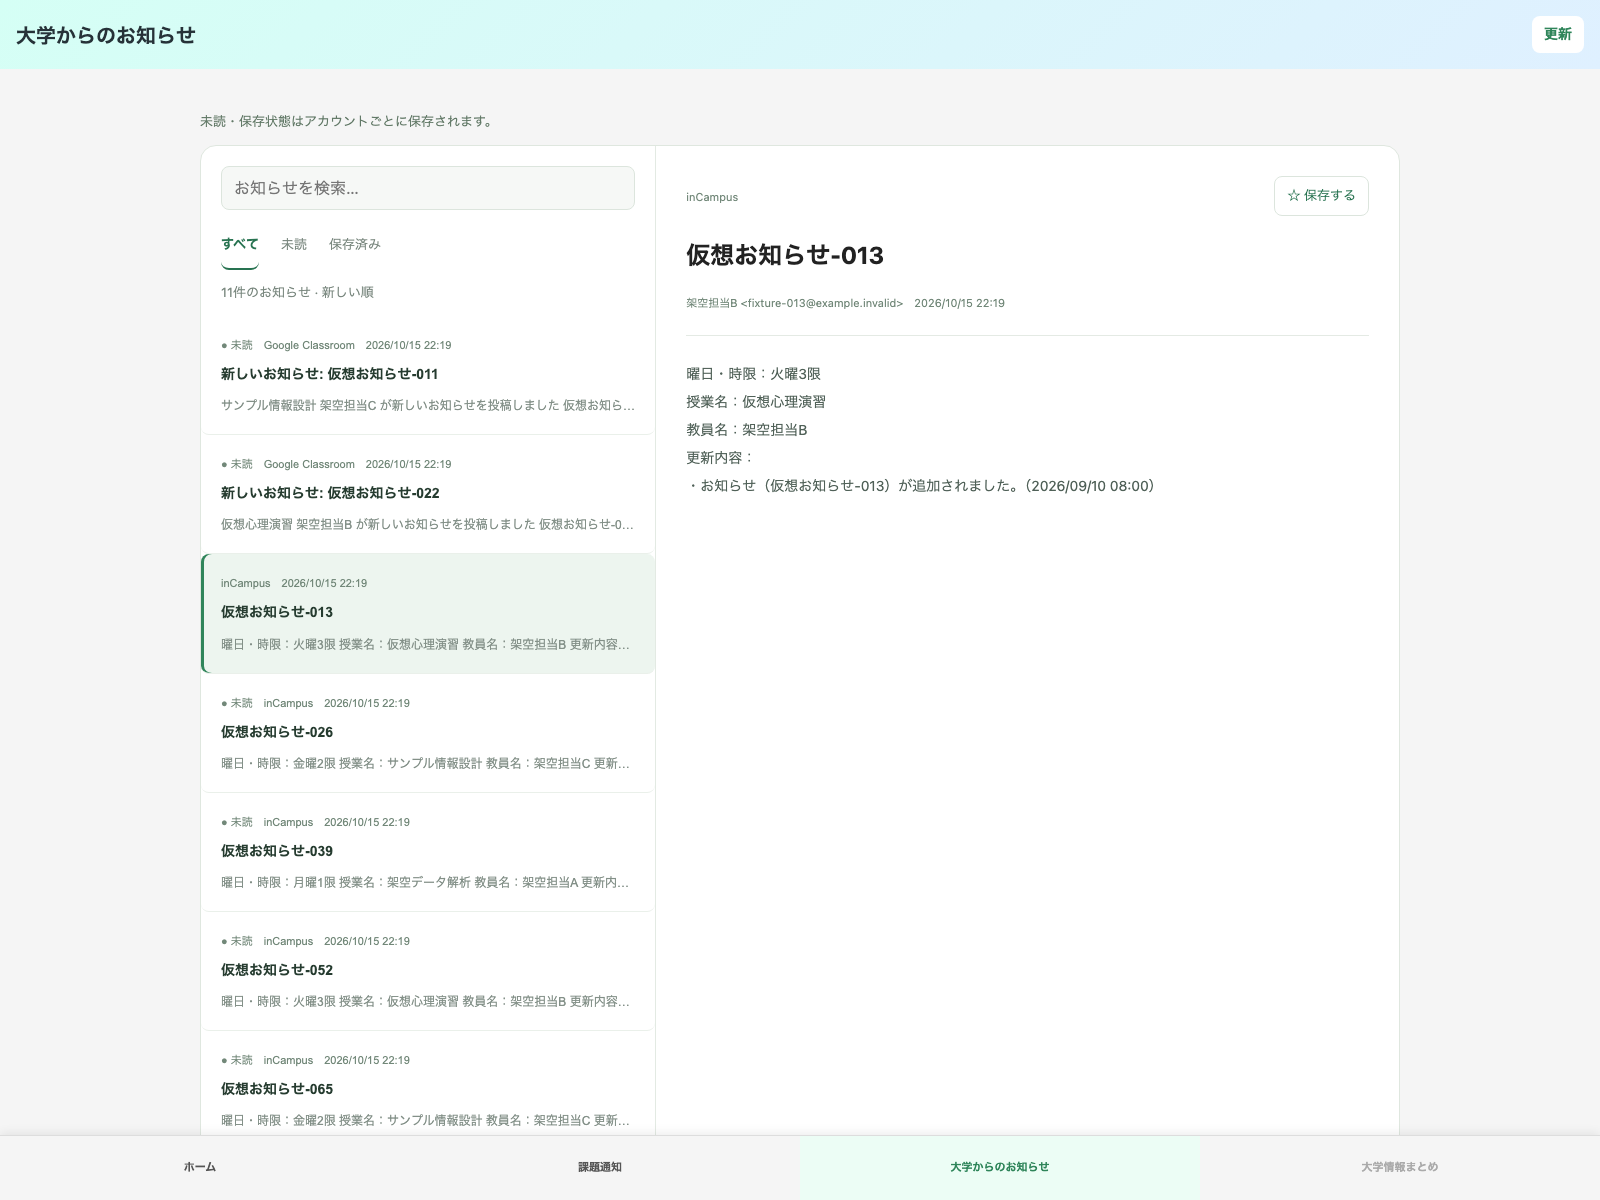
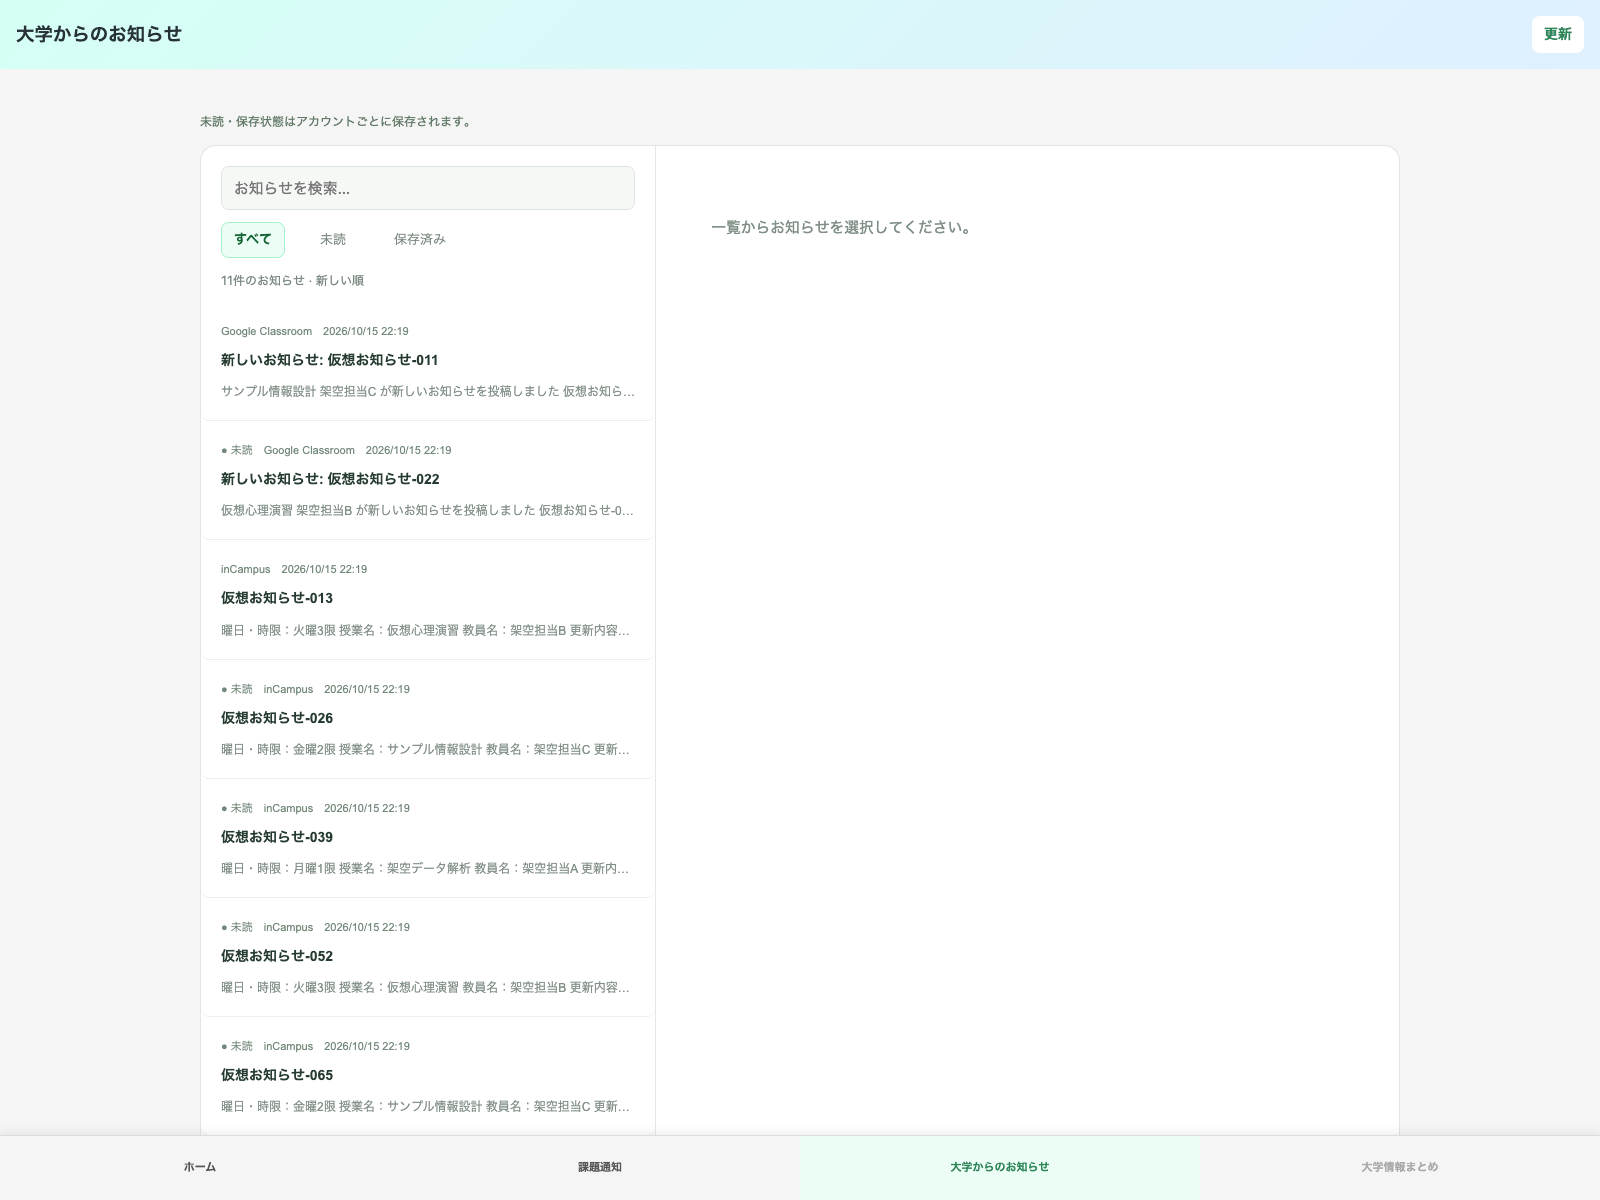
fix university notice filter styling

diff --git a/taskhub-split/taskhub-split/UniversityView.html b/taskhub-split/taskhub-split/UniversityView.html
@@ -4,5 +4,5 @@
 <p id="un-status" role="status" aria-live="polite"></p>
 <div class="un-shell" id="un-shell"><section class="un-inbox" aria-label="お知らせ一覧"><div class="un-tools"><input id="un-search" type="search" placeholder="お知らせを検索…" aria-label="お知らせを検索"><div class="un-tabs"><button data-un-filter="all" aria-pressed="true">すべて</button><button data-un-filter="unread" aria-pressed="false">未読</button><button data-un-filter="saved" aria-pressed="false">保存済み</button></div></div><p id="un-count" class="un-count"></p><div id="un-list"></div></section><article id="un-detail" class="un-detail"></article></div></main></section>
 <style>
-.un-main{max-width:1200px;margin:auto;padding:30px 24px 110px}.un-main h1{font-size:27px;margin-bottom:10px}.un-sub,.un-count{color:#7a887f;font-size:13px}.un-shell{display:grid;grid-template-columns:minmax(280px,38%) minmax(0,1fr);background:#fff;border:1px solid #dfe7df;border-radius:16px;overflow:hidden;min-height:570px}.un-inbox{border-right:1px solid #e3eae3}.un-tools{padding:20px 20px 0}#un-search{box-sizing:border-box;width:100%;padding:12px;border:1px solid #dce5dd;border-radius:8px;background:#f6f8f6;font:inherit}.un-tabs{display:flex;gap:22px;margin-top:12px}.un-tabs button{border:0;border-bottom:2px solid transparent;background:none;padding:13px 0;color:#7a887f;cursor:pointer}.un-tabs [aria-pressed=true]{color:#287351;border-color:#287351;font-weight:bold}.un-count{padding:0 20px}.un-item{display:block;box-sizing:border-box;width:100%;text-align:left;border:0;border-bottom:1px solid #eaf0ea;background:white;padding:20px;cursor:pointer;color:#263c30}.un-item[aria-current=true]{background:#edf5ef;box-shadow:inset 3px 0 #2f855a}.un-meta{font-size:11px;color:#728879;display:flex;justify-content:space-between;gap:10px}.un-title{font-size:14px;line-height:1.8;margin:9px 0;font-weight:650;overflow-wrap:anywhere}.un-excerpt{font-size:12px;color:#839088;overflow:hidden;white-space:nowrap;text-overflow:ellipsis}.un-detail{padding:30px;min-width:0}.un-detail h2{font-size:24px;line-height:1.6;overflow-wrap:anywhere}.un-body{white-space:pre-wrap;overflow-wrap:anywhere;font-size:14px;line-height:2;color:#506158;border-top:1px solid #e4eae4;padding-top:24px;margin-top:24px}.un-save,.un-back{border:1px solid #dce5dd;background:white;padding:9px 12px;border-radius:8px;color:#287351;cursor:pointer}.un-detail-top{display:flex;justify-content:space-between;align-items:center}.un-empty{padding:25px;color:#819087}.un-back{display:none}.un-mail{display:inline-block;margin-top:24px;color:#287351}#un-status{font-size:13px;color:#627967;min-height:20px}.un-main button:focus-visible{outline:3px solid #81baa0;outline-offset:-3px}@media(max-width:700px){.un-main{padding:20px 12px 110px}.un-shell{display:block}.un-inbox{border:0}.un-detail{display:none;padding:24px}.un-shell.is-reading .un-inbox{display:none}.un-shell.is-reading .un-detail{display:block}.un-back{display:block;margin-bottom:22px}}
+.un-main{max-width:1200px;margin:auto;padding:30px 24px 110px}.un-main h1{font-size:27px;margin-bottom:10px}.un-sub,.un-count{color:#7a887f;font-size:13px}.un-shell{display:grid;grid-template-columns:minmax(280px,38%) minmax(0,1fr);background:#fff;border:1px solid #dfe7df;border-radius:16px;overflow:hidden;min-height:570px}.un-inbox{border-right:1px solid #e3eae3}.un-tools{padding:20px 20px 0}#un-search{box-sizing:border-box;width:100%;padding:12px;border:1px solid #dce5dd;border-radius:8px;background:#f6f8f6;font:inherit}.un-tabs{display:flex;gap:22px;margin-top:12px}.un-tabs button{min-height:36px;align-self:center;padding:7px 12px;border:1px solid transparent;border-radius:8px;background:none;color:#7a887f;cursor:pointer}.un-tabs [aria-pressed=true]{border-color:#a7f3d0;background:#ecfdf5;color:#166534;font-weight:bold}.un-count{padding:0 20px}.un-item{display:block;box-sizing:border-box;width:100%;text-align:left;border:0;border-bottom:1px solid #eaf0ea;background:white;padding:20px;cursor:pointer;color:#263c30}.un-item[aria-current=true]{background:#edf5ef;box-shadow:inset 3px 0 #2f855a}.un-meta{font-size:11px;color:#728879;display:flex;justify-content:space-between;gap:10px}.un-title{font-size:14px;line-height:1.8;margin:9px 0;font-weight:650;overflow-wrap:anywhere}.un-excerpt{font-size:12px;color:#839088;overflow:hidden;white-space:nowrap;text-overflow:ellipsis}.un-detail{padding:30px;min-width:0}.un-detail h2{font-size:24px;line-height:1.6;overflow-wrap:anywhere}.un-body{white-space:pre-wrap;overflow-wrap:anywhere;font-size:14px;line-height:2;color:#506158;border-top:1px solid #e4eae4;padding-top:24px;margin-top:24px}.un-save,.un-back{border:1px solid #dce5dd;background:white;padding:9px 12px;border-radius:8px;color:#287351;cursor:pointer}.un-detail-top{display:flex;justify-content:space-between;align-items:center}.un-empty{padding:25px;color:#819087}.un-back{display:none}.un-mail{display:inline-block;margin-top:24px;color:#287351}#un-status{font-size:13px;color:#627967;min-height:20px}.un-main button:focus-visible{outline:3px solid #81baa0;outline-offset:-3px}@media(max-width:700px){.un-main{padding:20px 12px 110px}.un-shell{display:block}.un-inbox{border:0}.un-detail{display:none;padding:24px}.un-shell.is-reading .un-inbox{display:none}.un-shell.is-reading .un-detail{display:block}.un-back{display:block;margin-bottom:22px}}
 </style>
